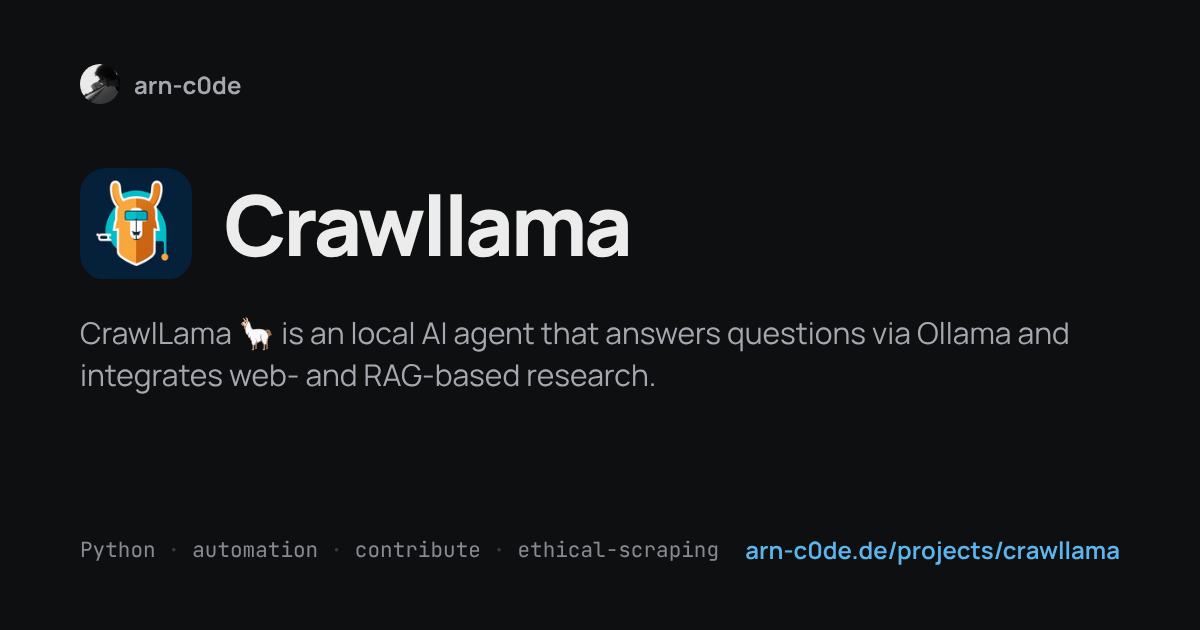
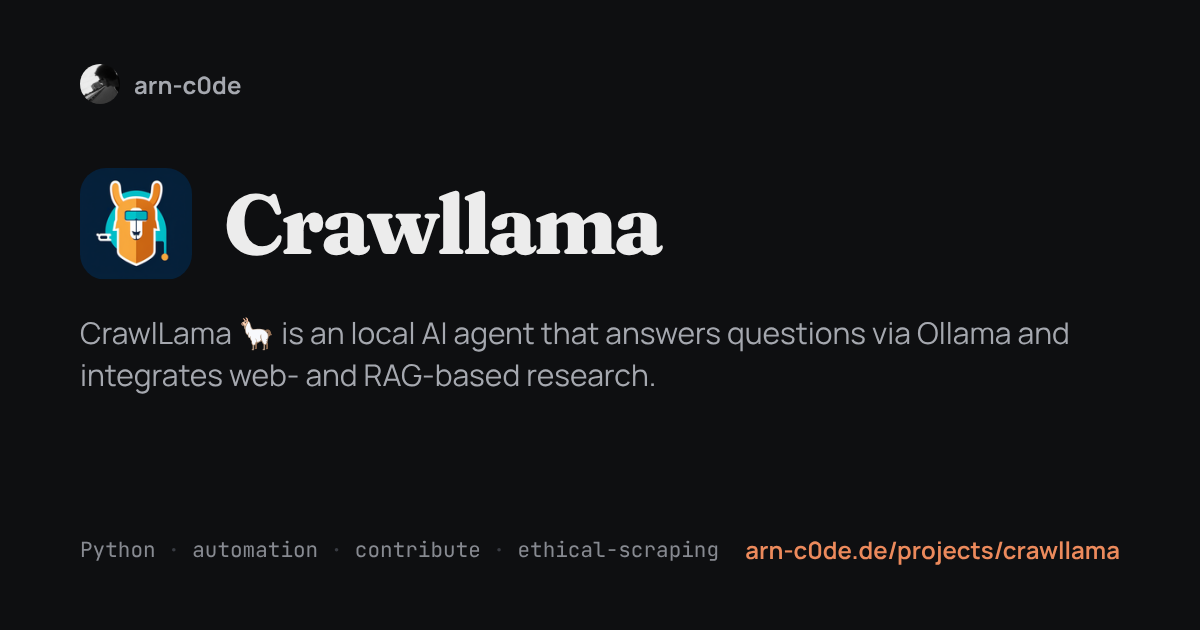
Fraunces for titles, rust red as the accent
Titles (page, section, card and post titles, the brand and the big
figures) are set in Fraunces; text, labels and tables stay in Manrope and
JetBrains Mono. The accent moves from blue to a rust red: #a83f12 on the
light page (5.7:1), #ec8a5c on the dark one (7.6:1), with white or
near-black text on it at 6:1 and more. The axe check passes on every page
in both themes.

The link-preview cards use the same face and accent, and the site card
now carries the current headline and topics.

Changed region(s): [[0.185, 0.3016, 0.555, 0.4222], [0.6167, 0.8444, 0.925, 0.9048]]

diff --git a/app/globals.css b/app/globals.css
@@ -8,6 +8,8 @@
 
   --font-sans: 'Manrope Variable', system-ui, -apple-system, sans-serif;
   --font-mono: 'JetBrains Mono Variable', ui-monospace, 'SF Mono', monospace;
+  /* Headings: a serif with some warmth, against the sans of the text. */
+  --font-display: 'Fraunces Variable', Georgia, 'Times New Roman', serif;
 
   /* Type scale — nothing that is meant to be read goes below 12px. */
   --fs-xs: 12px;
@@ -53,9 +55,10 @@
   --text: light-dark(#17181c, #ececec);
   --text-muted: light-dark(#4c4f57, #a5a8af);
   --text-faint: light-dark(#66696f, #878a91);
-  --accent: light-dark(#0a6aab, #5cb5ec);
-  --accent-2: light-dark(#08578d, #3f9fdb);
-  --accent-soft: light-dark(#e7f0f6, #13212b);
+  /* Rust red: 5.7:1 on the light page, 7:1+ on the dark one. */
+  --accent: light-dark(#a83f12, #ec8a5c);
+  --accent-2: light-dark(#8f3510, #f0a07a);
+  --accent-soft: light-dark(#f6e8e0, #2a1b14);
   --accent-text: light-dark(#ffffff, #0e0f11);
   /* The primary action is ink, not a second blue: one strong button style,
      with the accent left to links, selection and active states. */
@@ -8599,4 +8602,43 @@ a.qlp__row:hover .qlp__name {
 
 .pp-release__notes .readme {
   margin-top: 12px;
+}
+
+/* ── Display face ───────────────────────────────────────────────────────── */
+
+/* Titles in Fraunces; text, labels and figures in tables stay in the sans. */
+h1,
+h2,
+h3,
+.brand__name,
+.hero__name,
+.pane__title,
+.band__title,
+.now__title,
+.tile__title,
+.card__title,
+.latest__title,
+.metric__v,
+.pp-head__title,
+.post__title,
+.tl-title,
+.tl-group__title,
+.qlp__feature-title,
+.prow__title,
+.profile__name,
+.channel__name,
+.panel__title,
+.footer__brand > span:first-of-type {
+  font-family: var(--font-display);
+  letter-spacing: -0.02em;
+}
+
+/* Small headings that act as labels keep the sans. */
+.section__title,
+.pp-label,
+.now__label,
+.help__label,
+.qlp__col-title {
+  font-family: var(--font-sans);
+  letter-spacing: -0.005em;
 }

diff --git a/app/layout.tsx b/app/layout.tsx
@@ -6,6 +6,7 @@ import { SOCIALS } from '@/lib/socials'
 import type { VideoData } from '@/lib/youtube-feed'
 import '@fontsource-variable/manrope'
 import '@fontsource-variable/jetbrains-mono'
+import '@fontsource-variable/fraunces'
 import './globals.css'
 
 const DESCRIPTION =
